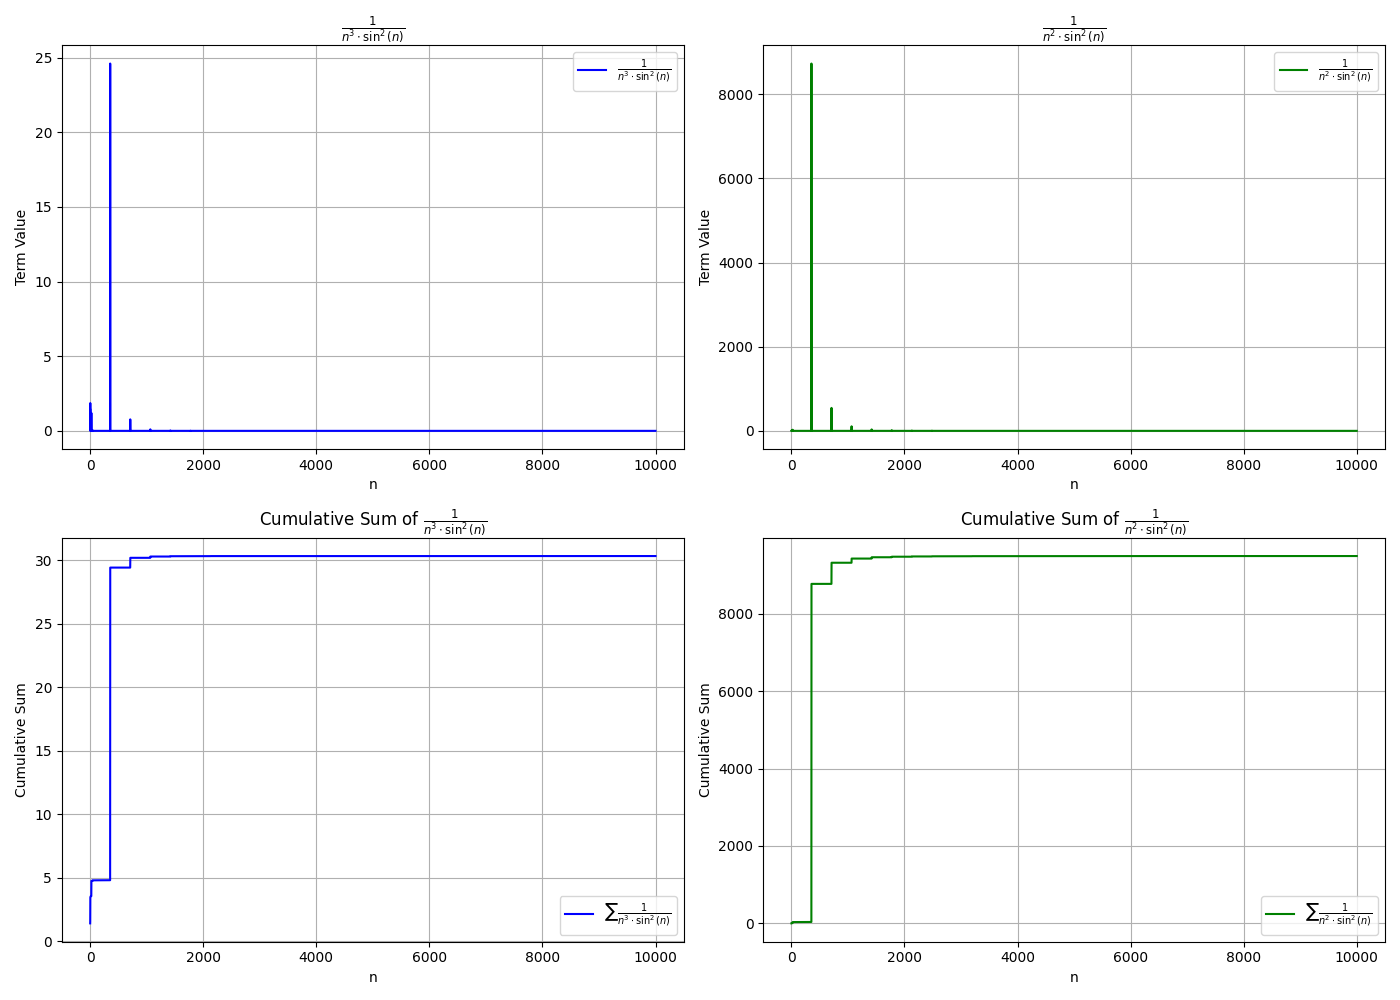
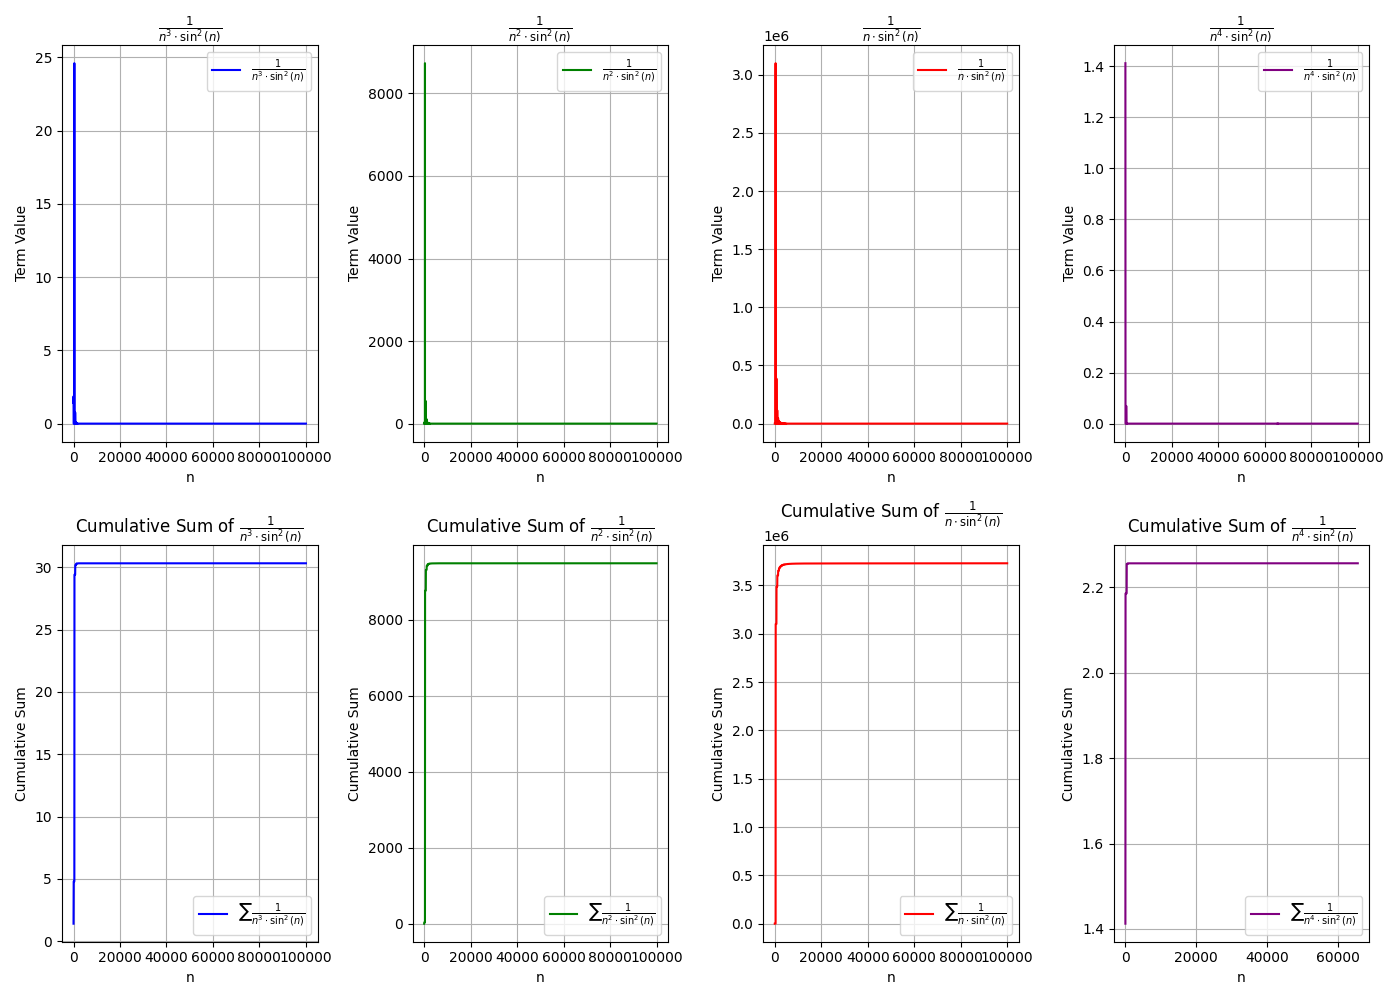
added more porblems

diff --git a/elementary_problem.py b/elementary_problem.py
@@ -2,22 +2,32 @@ import numpy as np
 import matplotlib.pyplot as plt
 
 # Define the function
-n_values = np.arange(1, 10000, 1)  # n from 1 to a very large number
+n_values = np.arange(1, 100000, 1)  # n from 1 to a very large number
 sin_n_squared = np.sin(n_values)**2
 
 # Calculate 1/(n^3 * sin^2(n)) and 1/(n^2 * sin^2(n))
 term_A = 1 / (n_values**3 * sin_n_squared)
 term_B = 1 / (n_values**2 * sin_n_squared)
+term_C = 1 / (n_values * sin_n_squared)
+term_D = 1 / (n_values**4 * sin_n_squared)
 
 # Calculate the cumulative sum for each series
 sum_term_A = np.cumsum(term_A)
 sum_term_B = np.cumsum(term_B)
+sum_term_C = np.cumsum(term_C)
+sum_term_D = np.cumsum(term_D)
 
+# Print the values of each sum at n = 10000
+print(f"Sum of 1/(n^3 * sin^2(n)) at n = 100000: {sum_term_A[-1]}")
+print(f"Sum of 1/(n^2 * sin^2(n)) at n = 100000: {sum_term_B[-1]}")
+print(f"Sum of 1/(n^2 * sin^2(n)) at n = 90000: {sum_term_B[-1000]}")
+print(f"Sum of 1/(n * sin^2(n)) at n = 100000: {sum_term_C[-1]}")
+print(f"Sum of 1/(n^4 * sin^2(n)) at n = 100000: {sum_term_D[-1]}")
 # Plotting
 plt.figure(figsize=(14, 10))
 
 # Plot 1/(n^3 * sin^2(n))
-plt.subplot(2, 2, 1)
+plt.subplot(2, 4, 1)
 plt.plot(n_values, term_A, label=r'$\frac{1}{n^3 \cdot \sin^2(n)}$', color='blue')
 plt.title(r'$\frac{1}{n^3 \cdot \sin^2(n)}$')
 plt.xlabel('n')
@@ -26,7 +36,7 @@ plt.grid(True)
 plt.legend()
 
 # Plot 1/(n^2 * sin^2(n))
-plt.subplot(2, 2, 2)
+plt.subplot(2, 4, 2)
 plt.plot(n_values, term_B, label=r'$\frac{1}{n^2 \cdot \sin^2(n)}$', color='green')
 plt.title(r'$\frac{1}{n^2 \cdot \sin^2(n)}$')
 plt.xlabel('n')
@@ -34,8 +44,26 @@ plt.ylabel(r'Term Value')
 plt.grid(True)
 plt.legend()
 
+# Plot 1/(n * sin^2(n))
+plt.subplot(2, 4, 3)
+plt.plot(n_values, term_C, label=r'$\frac{1}{n \cdot \sin^2(n)}$', color='red')
+plt.title(r'$\frac{1}{n \cdot \sin^2(n)}$')
+plt.xlabel('n')
+plt.ylabel(r'Term Value')
+plt.grid(True)
+plt.legend()
+
+# Plot 1/(n^4 * sin^2(n))
+plt.subplot(2, 4, 4)
+plt.plot(n_values, term_D, label=r'$\frac{1}{n^4 \cdot \sin^2(n)}$', color='purple')
+plt.title(r'$\frac{1}{n^4 \cdot \sin^2(n)}$')
+plt.xlabel('n')
+plt.ylabel(r'Term Value')
+plt.grid(True)
+plt.legend()
+
 # Plot cumulative sum of 1/(n^3 * sin^2(n))
-plt.subplot(2, 2, 3)
+plt.subplot(2, 4, 5)
 plt.plot(n_values, sum_term_A, label=r'$\sum \frac{1}{n^3 \cdot \sin^2(n)}$', color='blue')
 plt.title(r'Cumulative Sum of $\frac{1}{n^3 \cdot \sin^2(n)}$')
 plt.xlabel('n')
@@ -44,9 +72,27 @@ plt.grid(True)
 plt.legend()
 
 # Plot cumulative sum of 1/(n^2 * sin^2(n))
-plt.subplot(2, 2, 4)
+plt.subplot(2, 4, 6)
 plt.plot(n_values, sum_term_B, label=r'$\sum \frac{1}{n^2 \cdot \sin^2(n)}$', color='green')
 plt.title(r'Cumulative Sum of $\frac{1}{n^2 \cdot \sin^2(n)}$')
+plt.xlabel('n')
+plt.ylabel(r'Cumulative Sum')
+plt.grid(True)
+plt.legend()
+
+# Plot cumulative sum of 1/(n * sin^2(n))
+plt.subplot(2, 4, 7)
+plt.plot(n_values, sum_term_C, label=r'$\sum \frac{1}{n \cdot \sin^2(n)}$', color='red')
+plt.title(r'Cumulative Sum of $\frac{1}{n \cdot \sin^2(n)}$')
+plt.xlabel('n')
+plt.ylabel(r'Cumulative Sum')
+plt.grid(True)
+plt.legend()
+
+# Plot cumulative sum of 1/(n^4 * sin^2(n))
+plt.subplot(2, 4, 8)
+plt.plot(n_values, sum_term_D, label=r'$\sum \frac{1}{n^4 \cdot \sin^2(n)}$', color='purple')
+plt.title(r'Cumulative Sum of $\frac{1}{n^4 \cdot \sin^2(n)}$')
 plt.xlabel('n')
 plt.ylabel(r'Cumulative Sum')
 plt.grid(True)

diff --git a/running_time.py b/running_time.py
@@ -1,0 +1,40 @@
+import numpy as np
+import matplotlib.pyplot as plt
+
+# Define constants for the function
+alpha = 1.0   # Efficiency gain factor from parallelism
+beta = 0.1    # Overhead cost factor due to parallelism
+gamma = 0.01  # Network communication cost factor due to parallelism
+delta = 100.0  # Load imbalance cost factor due to imbalance cores per executor
+epsilon = 0.1 # Constant term
+
+# Define cluster configuration (example)
+W = 3  # Number of workers
+E = [1, 1, 1]  # Executors per worker (example)
+C = [[8], [8], [4]]  # Cores per executor in each worker
+
+# Total parallelism (sum of all cores across workers and executors)
+total_parallelism = sum([sum(C[i]) for i in range(W)])
+
+# Define distributed computing factor D
+D = 3  # Example factor to simulate network overhead or shuffling
+
+# Define a range for the number of partitions P
+P_values = np.arange(1, total_parallelism * 5, 1)  # More partitions than parallelism
+
+# Define the function T(P)
+def T(P):
+    imbalance_factor = max([sum(C[i]) for i in range(W)]) / total_parallelism
+    return alpha * np.log(P) + beta * P + gamma * P**2 + delta * D * imbalance_factor / P + epsilon
+
+# Compute T(P) for the range of P values
+T_values = T(P_values)
+# Plot the function
+plt.figure(figsize=(10, 6))
+plt.plot(P_values, T_values, label="T(P) - Running Time Function with Distributed Computing", color='b')
+plt.xlabel("Number of Partitions (P)")
+plt.ylabel("Running Time (T(P))")
+plt.title("Running Time as a Function of Partitions (Incorporating Distributed Computing)")
+plt.grid(True)
+plt.legend()
+plt.savefig('running_time.png')
